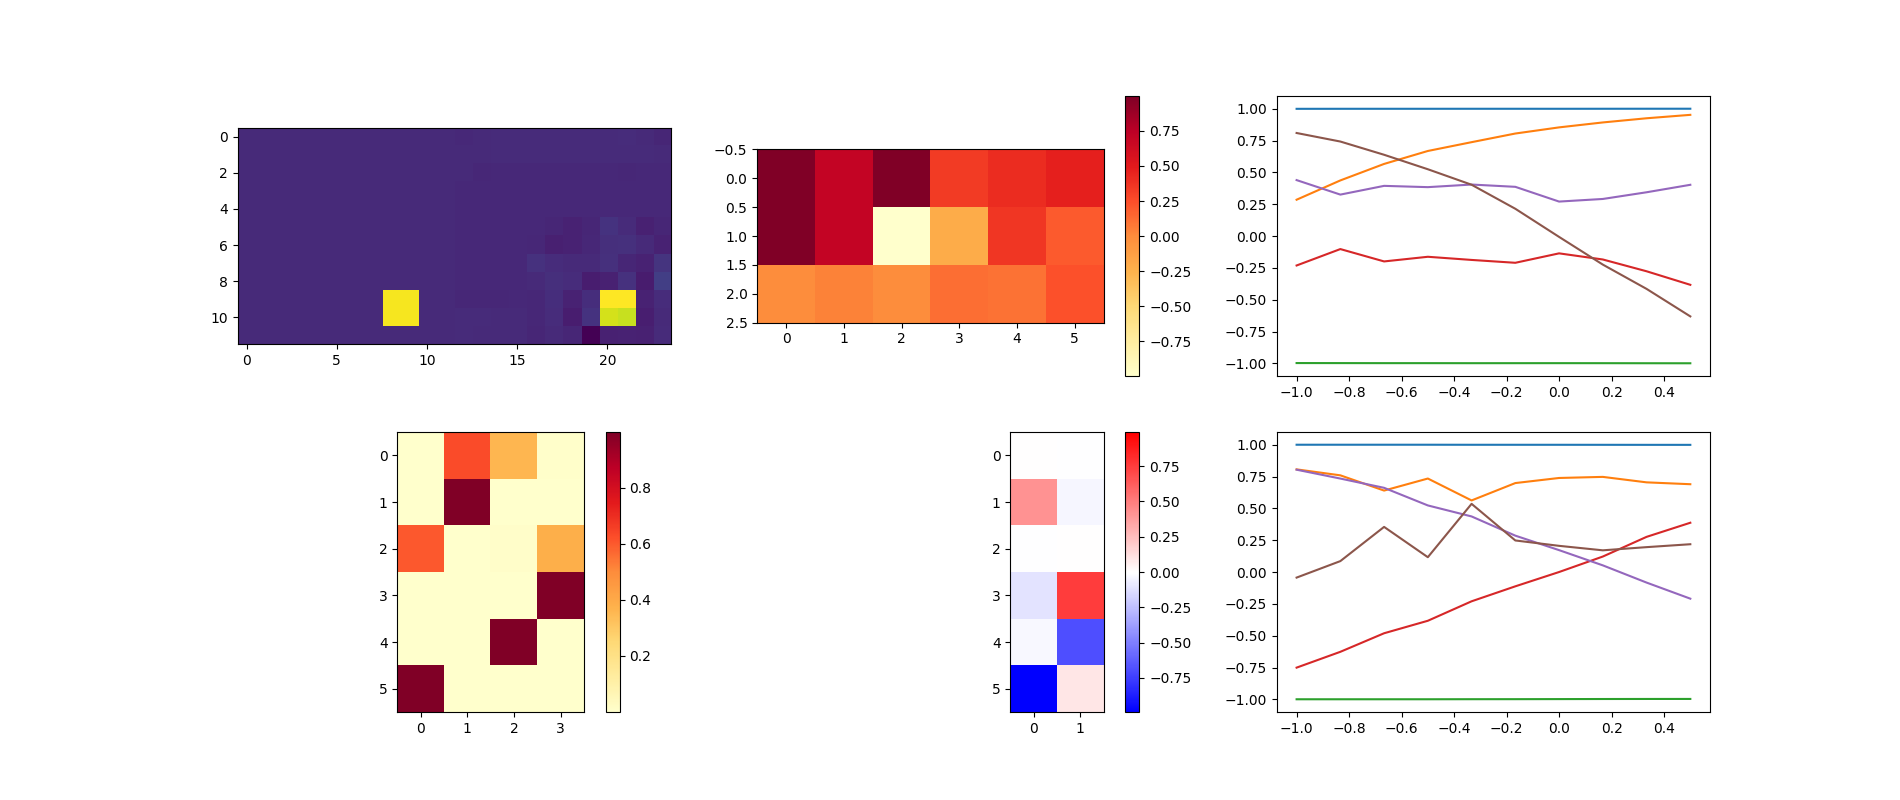
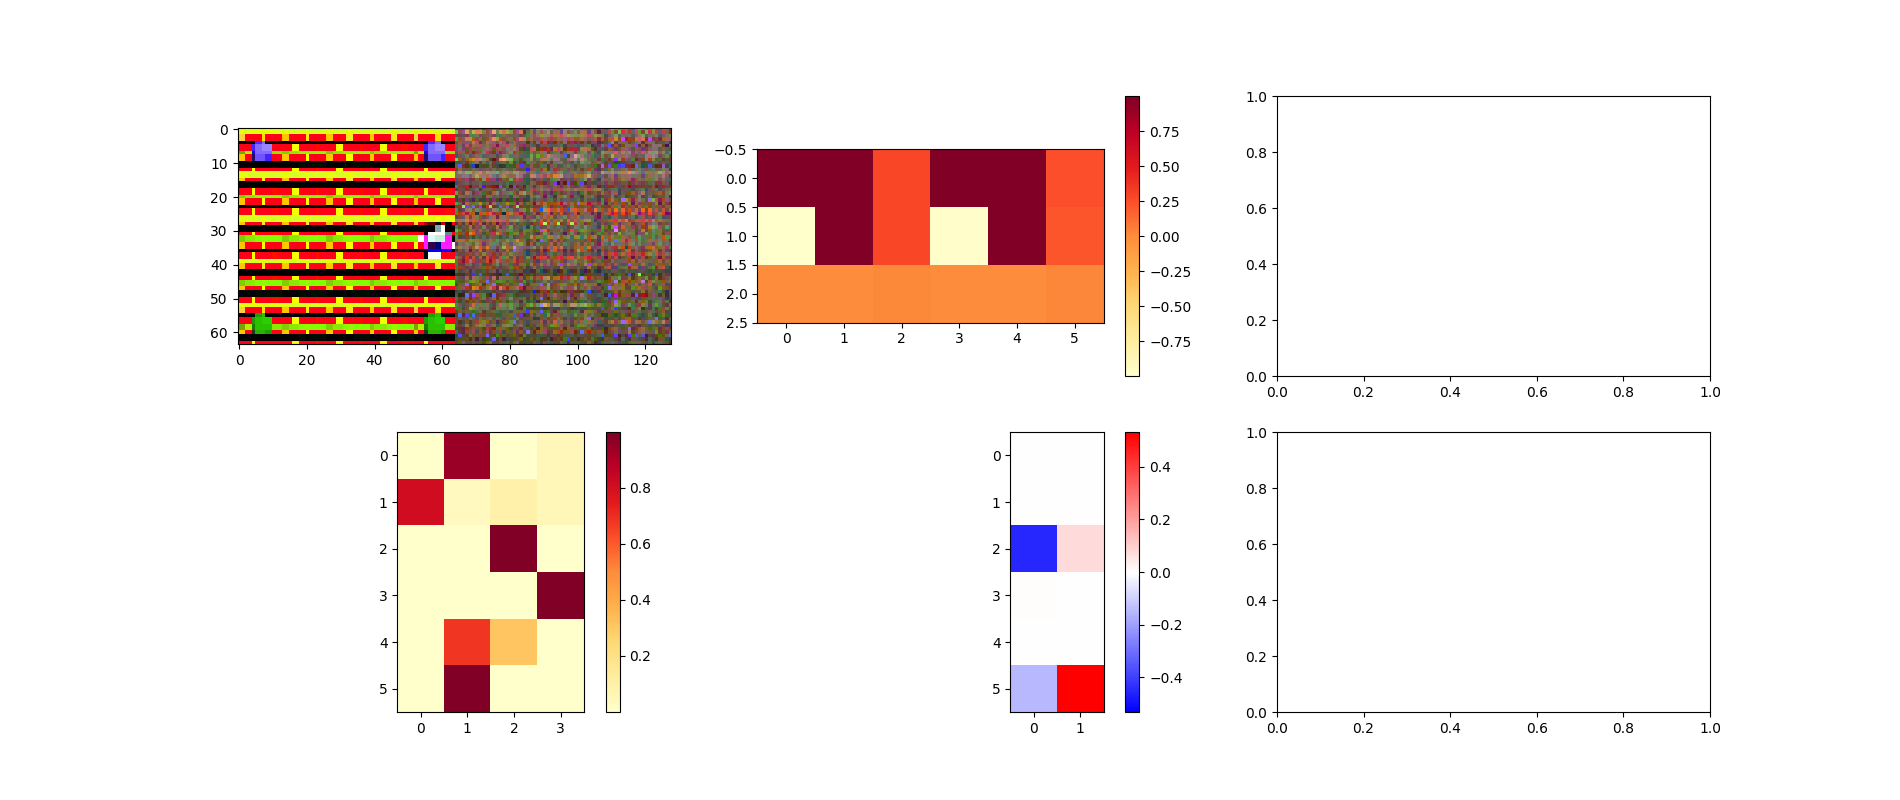
got experiments running with sokoban

diff --git a/DL/ICF_simple/main_icf.py b/DL/ICF_simple/main_icf.py
@@ -20,6 +20,8 @@ class Squares:
         self.nsquares = nsquares
         self.size = size # size of the observation
         self.side = side # size of squares
+        self.num_channels = 1
+
     @property
     def nactions(self):
         return 4
@@ -52,6 +54,8 @@ class Sokoban:
         self.env = BlockPushingDomain(observation_mode='image', configuration='standard')
         self.nsquares = 1
         self.size = 64
+        self.num_channels = 3
+        self.nactions = 4
 
     def get_agent_pos(self):
         agent = [x for x in self.env.get_current_state()['blocks'] if isinstance(x, AgentBlock)][0]
@@ -61,7 +65,7 @@ class Sokoban:
         random_action = np.random.randint(0, 4) # the 5th action is a no-op, for simplicity let's remove this.
         s = self.env.reset()
         pos = self.get_agent_pos()
-        sp = self.env.step(random_action)
+        sp, r, t, info = self.env.step(random_action)
         pos_p = self.get_agent_pos()
         return s.flatten() / 255., random_action, sp.flatten() / 255., pos, pos_p
 
@@ -70,9 +74,10 @@ class Sokoban:
 
 def main():
 
-    env = Squares(1,12,2) 
+    #env = Squares(1,12,2)
+    env = Sokoban()
     N_latent = 6 # number of latent ICF
-    convn = [16,16] # number of hidden conv channels
+    convn = [16,16,16] # number of hidden conv channels
     convfs = 3 # filter size
     nhid = 32 # number of fc hidden
     rec_factor = 0.1 # factor of the reconstruction loss
@@ -80,19 +85,22 @@ def main():
     
     model = Model()
     model.build([
-        placeholder('s_t', shape=(None, env.size**2)),
+        placeholder('s_t', shape=(None, env.size**2 * env.num_channels)),
 
         # encoder
-        flat2image('s_t_image', input='s_t', shape=(1,env.size,env.size)),
-        conv('conv1', input='s_t_image', nout=convn[0], fs=convfs, act=T.nnet.relu, stride=(1,1)),
-        conv('conv2', input='conv1',     nout=convn[1], fs=convfs, act=T.nnet.relu, stride=(1,1)),
-        image2flat('conv2_flat', input='conv2'),
-        fc('h1', input='conv2_flat', nout=nhid, act=T.nnet.relu),
+        flat2image('s_t_image', input='s_t', shape=(env.num_channels, env.size,env.size)),
+        conv('conv1', input='s_t_image', nout=convn[0], fs=convfs, act=T.nnet.relu, stride=(2,2)), # 32 x 32
+        conv('conv2', input='conv1',     nout=convn[1], fs=convfs, act=T.nnet.relu, stride=(2,2)), # 16 x 16
+        conv('conv3', input='conv2', nout=convn[2], fs=convfs, act=T.nnet.relu, stride=(2, 2)),  # 8 x 8
+
+        image2flat('conv3_flat', input='conv3'),
+        fc('h1', input='conv3_flat', nout=nhid, act=T.nnet.relu),
         fc('h', input='h1', nout=N_latent, act=T.tanh),
 
         # decoder
-        conv_transpose('convT2', input='conv2', nout=convn[0], fs=convfs,act=T.nnet.relu,stride=(1,1)),
-        conv_transpose('convT1', input='convT2', nout=1, fs=convfs,act=lambda x:x,stride=(1,1)),
+        conv_transpose('convT3', input='conv3', nout=convn[0], fs=convfs,act=T.nnet.relu,stride=(2,2)), # 16 x 16
+        conv_transpose('convT2', input='convT3', nout=convn[0], fs=convfs, act=T.nnet.relu, stride=(2, 2)),  # 32 x 32
+        conv_transpose('convT1', input='convT2', nout=env.num_channels, fs=convfs,act=lambda x:x,stride=(2,2)), # 64 x 64
         
         # actor policy
         fc('pi_act', input='h1', nout=env.nactions * N_latent, act=lambda x:x),
@@ -182,7 +190,8 @@ def main():
                                     latent_features.var(axis=1)])
         # see how well the reconstruction is doing
         st = env.genRandomSample()[0]
-        rt = reconstruct_func([st])[0]
+        rt = reconstruct_func([numpy.float32(st)])[0]
+        print('rt', rt.shape)
         recons.append([st,rt])
 
         policies_stats = numpy.mean(policies,axis=0)
@@ -190,23 +199,23 @@ def main():
         # actual plotting
         pp.clf()
         f, axarr = pp.subplots(2,3,figsize=(19,8))
-        axarr[0,0].imshow(numpy.hstack([recons[-1][0].reshape((env.size,env.size)),
-                                        recons[-1][1].reshape((env.size,env.size))]), interpolation='none')
+        axarr[0,0].imshow(numpy.hstack([255*recons[-1][0].reshape((env.size,env.size, env.num_channels)),
+                                        255*recons[-1][1].reshape((env.size,env.size, env.num_channels))]).astype(np.uint8), interpolation='none')
         slopes_max = max([-slopes.min(), slopes.max()])
         f.colorbar(axarr[1,1].imshow(slopes, interpolation='none', cmap='bwr',vmin=-slopes_max,vmax=slopes_max),
                    ax=axarr[1,1])
         f.colorbar(axarr[1,0].imshow(policies_stats, interpolation='none',cmap='YlOrRd'), ax=axarr[1,0])
         f.colorbar(axarr[0,1].imshow(magnitudes, interpolation='none',cmap='YlOrRd'), ax=axarr[0,1])
         
-        for i in range(nfeat):
-            rf = np.arange(real_features.min(),real_features.max()+1/6.,1./6,'float32')
-            lf = numpy.float32([latent_features[i][np.int32(np.round(real_features[0]*12))==j].mean()
-                                for j in range(-12,8,2)])
-            axarr[0,2].plot(rf, lf)
-            indexes = sorted(range(latent_features.shape[1]), key=lambda x:real_features[1][x])
-            lf = numpy.float32([latent_features[i][np.int32(np.round(real_features[1]*12))==j].mean()
-                                for j in range(-12,8,2)])
-            axarr[1,2].plot(rf, lf)
+        # for i in range(nfeat):
+        #     rf = np.arange(real_features.min(),real_features.max()+1/6.,1./6,'float32')
+        #     lf = numpy.float32([latent_features[i][np.int32(np.round(real_features[0]*12))==j].mean()
+        #                         for j in range(-12,8,2)])
+        #     axarr[0,2].plot(rf, lf)
+        #     indexes = sorted(range(latent_features.shape[1]), key=lambda x:real_features[1][x])
+        #     lf = numpy.float32([latent_features[i][np.int32(np.round(real_features[1]*12))==j].mean()
+        #                         for j in range(-12,8,2)])
+        #     axarr[1,2].plot(rf, lf)
             
         pp.savefig('plots/epoch_%03d.png'%epoch)
     return features, recons
@@ -217,7 +226,9 @@ def train(learn, env, niters):
     losses = []
     for i in range(niters):
         s,a,sp,tf,tf1 = map(numpy.float32, zip(*[env.genRandomSample() for j in range(mbsize)]))
-        losses.append(learn(s,sp,numpy.int32(a)[:,0]))
+        res = learn(s,sp,numpy.int32(a))
+        losses.append([float(res[0]), float(res[1])])
+        print(i, losses[-1])
     return losses
 
 def extract_features(encoder, policy, env, niters):
